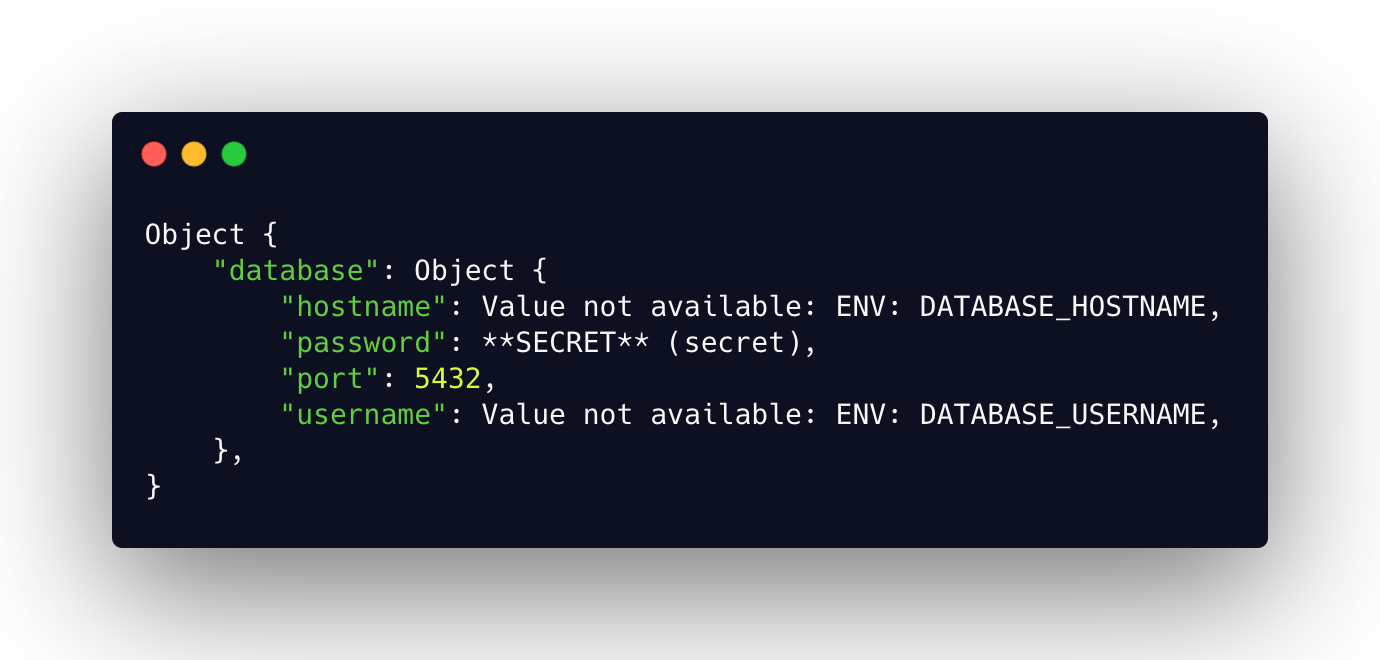
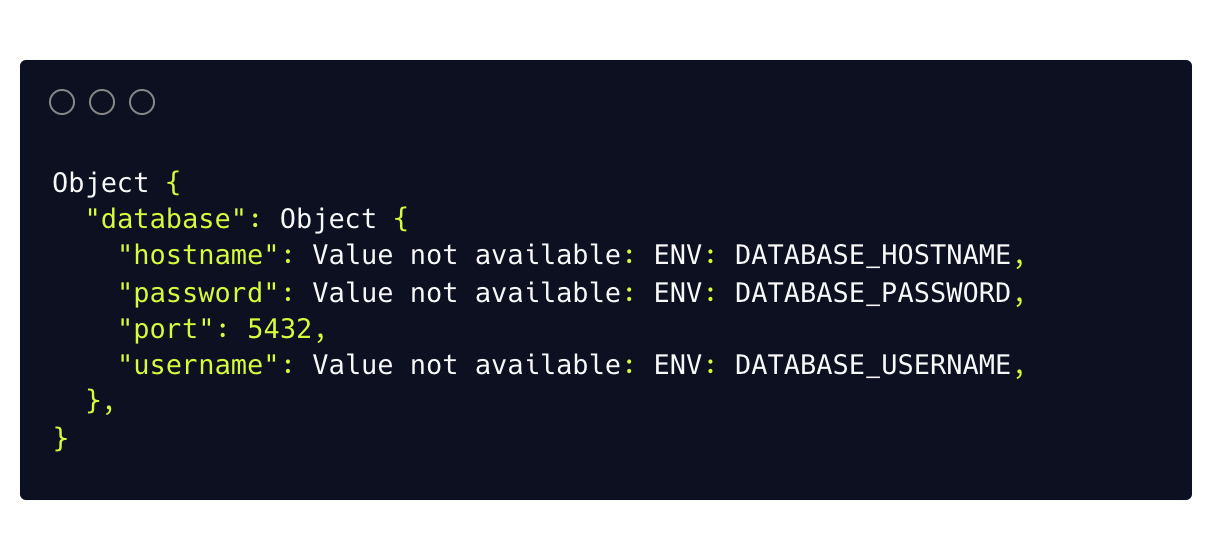
#40 Secret manager docs

diff --git a/packages/aws-secret-manager/src/secretManagerProviderFactory.ts b/packages/aws-secret-manager/src/secretManagerProviderFactory.ts
@@ -1,11 +1,14 @@
-import { SecretsManagerClient, BatchGetSecretValueCommand } from "@aws-sdk/client-secrets-manager";
-import { SecretValueEntry } from "@aws-sdk/client-secrets-manager/dist-types/models/models_0";
+import { SecretsManagerClient, BatchGetSecretValueCommand, SecretValueEntry } from "@aws-sdk/client-secrets-manager";
+import { fromTry } from "@sweet-monads/either";
 // eslint-disable-next-line @typescript-eslint/naming-convention
 import DataLoader from "dataloader";
+
+
 
 import { SecretManagerProvider } from "./SecretManagerProvider";
 import { SecretReference } from "./SecretReference";
 import { ERRORS } from "./errors";
+
 
 const MAX_BATCH_SIZE = 20;
 
@@ -21,12 +24,12 @@ export function defaultDeserialize(entry: SecretValueEntry) {
 	}
 
 	if (entry.SecretString) {
-		const string = entry.SecretString;
-		if (string.startsWith("{") || string.startsWith("[") || string.startsWith('"')) {
-			return JSON.parse(entry.SecretString);
-		}
-
-		return entry.SecretString;
+		return fromTry(() => JSON.parse(entry.SecretString!)).fold(
+			() => {
+				return entry.SecretString!;
+			},
+			x => x
+		);
 	}
 
 	throw new Error("Unsupported secret. Missing required `SecretBinary` or `SecretString` field.");

diff --git a/docs/providers/aws-secret-manager.md b/docs/providers/aws-secret-manager.md
@@ -1,0 +1,131 @@
+---
+sidebar_position: 14
+---
+
+# AWS Secret Manager
+
+[AWS Secret Manager](https://docs.aws.amazon.com/secretsmanager/latest/userguide/intro.html) is a great tool to provide 
+secure storage for your secrets like database passwords, JWT secret keys, API keys. 
+Additionally it can be customized to store structures instead of just strings.
+
+Ability to rotate the secrets is a great feature that allows to keep your secrets secure in case of a leak.
+
+
+## Installation
+
+```bash npm2yarn
+npm install @pallad/config-aws-secret-manager
+```
+
+## Retrieving secrets
+
+You can retrieve entire secret by providing its name:
+```ts
+import { secretManagerProviderFactory } from '@pallad/config-aws-secret-manager';
+
+const secretManager = secretManagerProviderFactory();
+
+// retrieves entire "database" secret upon resolution
+secretManager({name: 'database'})
+```
+### Just a property from structured secret
+
+```ts
+import { secretManagerProviderFactory } from '@pallad/config-aws-secret-manager';
+
+const secretManager = secretManagerProviderFactory();
+
+// retrieves "database" secret and extracts property `username` from it
+secretManager({name: 'database', property: 'username'})
+```
+
+## Ensuring type safety
+
+All values fetched from secret manager are treated as `unknown` therefore extra validation is required to ensure type safety.
+
+### For property
+
+```ts
+import {type} from '@pallad/config';
+
+// ensures that `username` property is a string
+secretManager({name: 'database', property: 'username'}).transform(type.string);
+
+// port to be an integer
+secretManager({name: 'database', property: 'port'}).transform(type.int);
+
+// custom validation
+secretManager({name: 'database', property: 'password'}).transform((value) => {
+    if (someTypeCheck(value)) {
+        return value;
+    }
+    throw new Error('Invalid value');
+});
+```
+
+### For structure
+
+Transform properties for type safety is easy but it can be cumbersome for complex structures therefore using `transform` on entire secret might recommended.
+```ts
+import {type} from '@pallad/config';
+
+import {z} from 'zod';
+
+const databaseSchema = z.object({
+    username: z.string(),
+    password: z.string(),
+    port: z.number()
+});
+
+// ensures that entire secret is an object satisfying `databaseSchema`
+secretManager({name: 'database'}).transform((value) => {
+    return databaseSchema.parse(value);
+});
+```
+
+## Customization
+
+### Prefix all secret names
+
+```ts
+import { secretManagerProviderFactory } from '@pallad/config-aws-secret-manager';
+
+const secretManager = secretManagerProviderFactory({
+    prefix: '/env/prod/'
+});
+
+// retrieves "/env/prod/database" secret
+secretManager('database')
+```
+
+### Use custom instance of Secret Manager client
+
+```ts
+import { ssmProviderFactory } from '@pallad/config-aws-ssm';
+import { SecretsManagerClient } from "@aws-sdk/client-secrets-manager";
+
+const secretManager = secretManagerProviderFactory({
+    client: new SecretsManagerClient({region: 'us-east-1'})
+});
+// retrieves "/env/prod/database" secret from `us-east-1` region
+secretManager('database')
+```
+
+### Deserialization
+
+By default, all secrets are stored as strings. If data looks like a JSON then it is being deserialized.
+If you need more control over deserialization you can provide custom deserializer.
+
+```ts
+import { SecretValueEntry } from "@aws-sdk/client-secrets-manager";
+
+const secretManager = secretManagerProviderFactory({
+    deserialize(secret: SecretValueEntry) {
+        if (secret.SecretString) {
+            return customJSONDeserializer(secret.SecretString);
+        }
+        
+        throw new Error('Unsupported secret format');
+    }
+});
+```

diff --git a/docs/providers/aws-ssm.md b/docs/providers/aws-ssm.md
@@ -40,13 +40,13 @@ The example policy allows retrieving only parameters from prefix `"env/prod/"`.
 # Installation
 
 ```bash npm2yarn
-npm install @pallad/config-ssm
+npm install @pallad/config-aws-ssm
 ```
 
 The simplest example
 
 ```ts
-import {ssmProviderFactory} from '@pallad/config-ssm';
+import {ssmProviderFactory} from '@pallad/config-aws-ssm';
 import {secret} from '@pallad/secret';
 
 const ssm = ssmProviderFactory();
@@ -66,10 +66,10 @@ While SSM provider is great by itself it might be more beneficial to use it with
 
 ## Customization
 
-Prefix all parameter names
+### Prefix all parameter names
 
 ```ts
-import {ssmProviderFactory} from '@pallad/config-ssm';
+import {ssmProviderFactory} from '@pallad/config-aws-ssm';
 
 const ssm = ssmProviderFactory({
     prefix: '/env/prod/'
@@ -79,10 +79,10 @@ const ssm = ssmProviderFactory({
 ssm('database/password')
 ```
 
-Use custom instance of SSM
+### Use custom instance of SSM
 
 ```ts
-import {ssmProviderFactory} from '@pallad/config-ssm';
+import {ssmProviderFactory} from '@pallad/config-aws-ssm';
 import {SSM} from 'aws-sdk';
 
 const ssm = ssmProviderFactory({
@@ -94,10 +94,3 @@ const ssm = ssmProviderFactory({
 
 ssm('database/password');
 ```
-
-## Transforming values
-
-As every provider factory, SSM is no different and allows for values transformation
-
-
-For example in order to

diff --git a/docs/index.md b/docs/index.md
@@ -24,10 +24,21 @@ Easily manage configurations for different environments like CI, production, or 
 * 🧑🤝🧑 Type friendly
 * ❤ Easy integration with any kind of applications
 
-## Community
-
-Join our [discord server](https://discord.gg/KCvnfzhNAq)
-
 ## Screenshots
-![Code](./assets/code.png)
+Define config
+```ts title="/src/config.ts"
+
+import {env} from '@pallad/config';
+
+export function createConfig() {
+    return {
+        database: {
+            hostname: env('DATABASE_HOSTNAME'),
+            port: 5432,
+            username: env('DATABASE_USERNAME').secret(),
+            password: env('DATABASE_PASSWORD').secret()
+        }
+    };
+}
+```
 ![Shell](./assets/shell.png)

diff --git a/docs/getting-started.md b/docs/getting-started.md
@@ -30,7 +30,6 @@ env, env files or ssm.
 
 ```ts title="/src/config.ts"
 import {env} from '@pallad/config';
-import {secret} from '@pallad/secret';
 
 export function createConfig() {
     return {
@@ -49,7 +48,6 @@ export function createConfig() {
 
 ```js title="/src/config.js"
 const {env} = require('@pallad/config')
-const {secret} = require('@pallad/secret');
 
 exports.createConfig = () => {
     return {

diff --git a/docs/providers/index.md b/docs/providers/index.md
@@ -14,7 +14,7 @@ Some providers can also behave like hybrids that use sync or async way depending
 `@pallad/config` supports retrieving values from:
 
 - [Environment variables](./environment-variables)
-- [Envfiles](./envfile)
+- [ENV files](./envfile)
 - [TOML files](./toml)
 - [AWS SSM Parameter Store](./aws-ssm)
 - [AWS Secret Manager](./aws-secret-manager)

diff --git a/docs/providers/pick-by-type.md b/docs/providers/pick-by-type.md
@@ -15,7 +15,7 @@ const provider = pickByType(env('EMAIL_STRATEGY'))
     .registerOptions('real', {
         smtp: {
             hostname: env('EMAIL_SMTP_HOSTNAME'),
-            password: env('EMAIL_SMTP_PASSWORD', {transformer: secret})
+            password: env('EMAIL_SMTP_PASSWORD').secret()
         }
     })
     .registerOptions('logs', {
